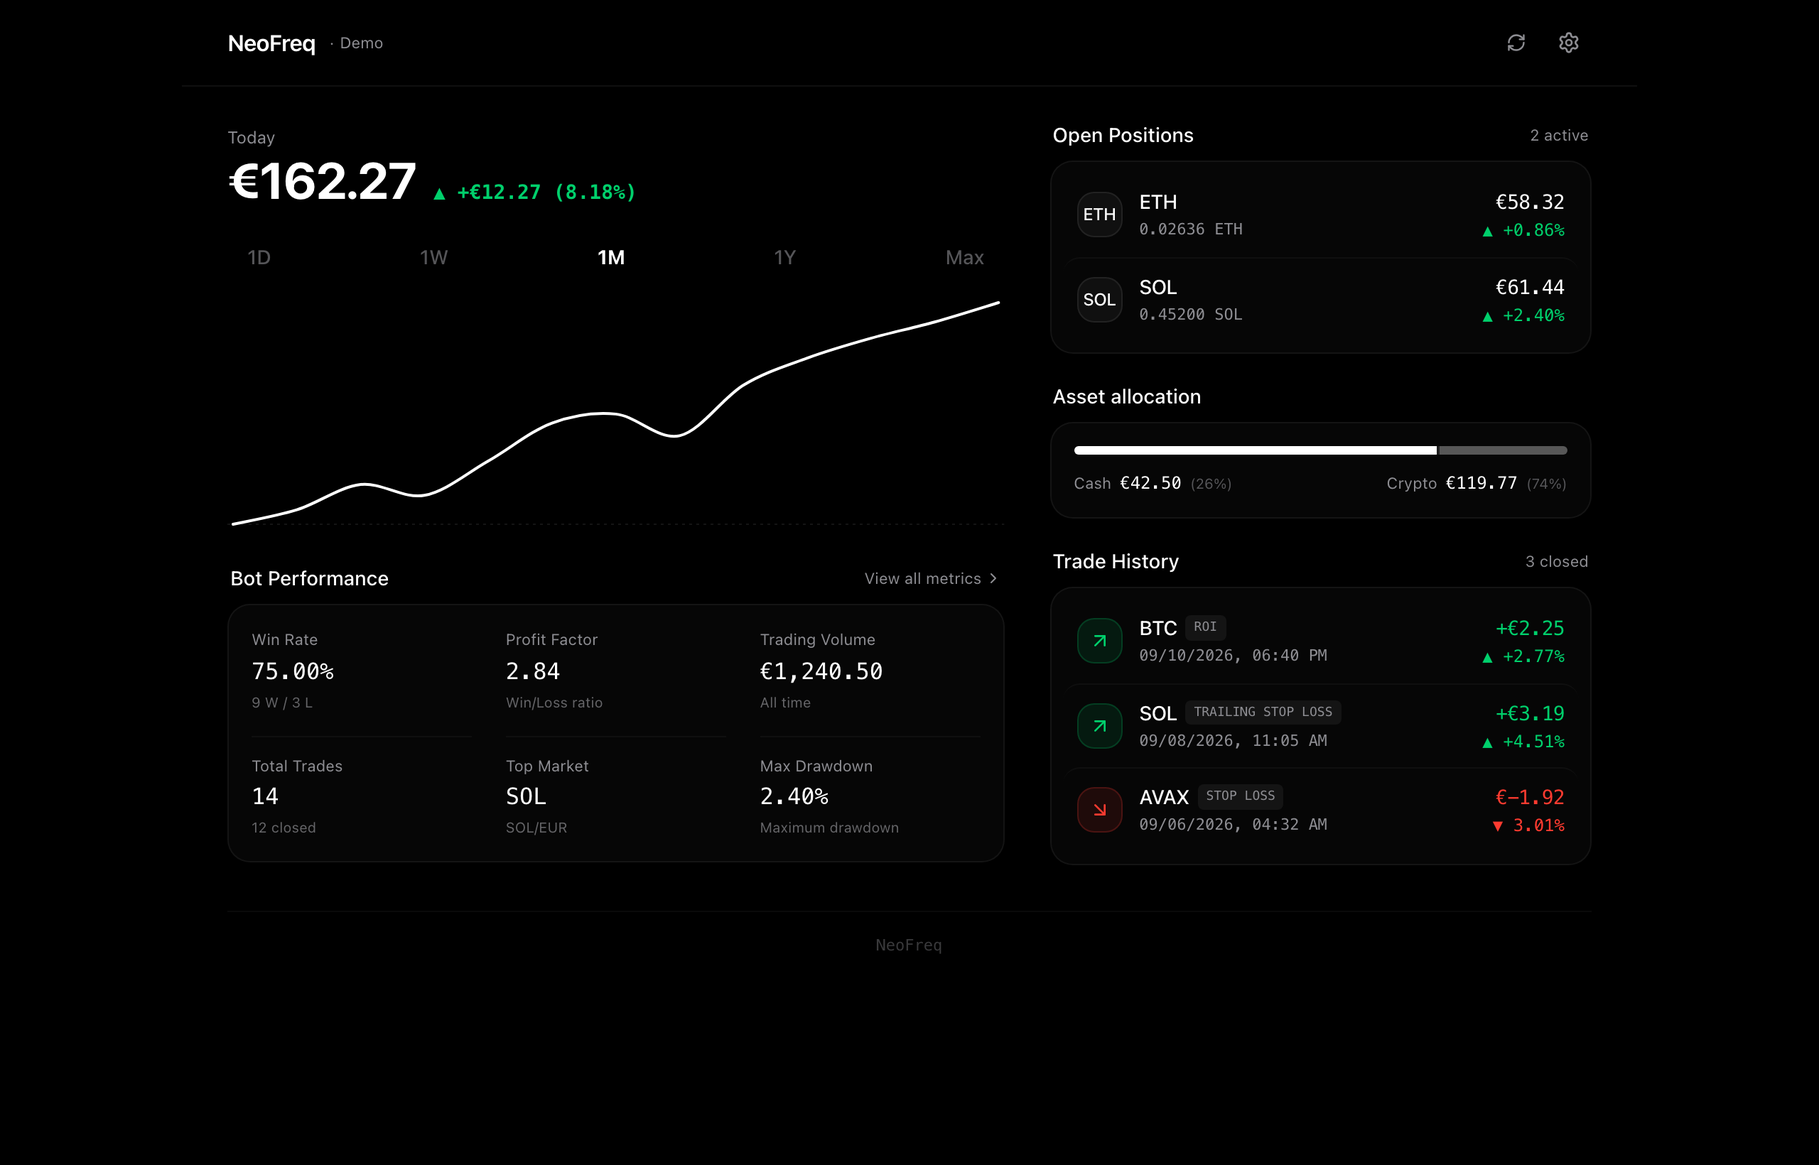
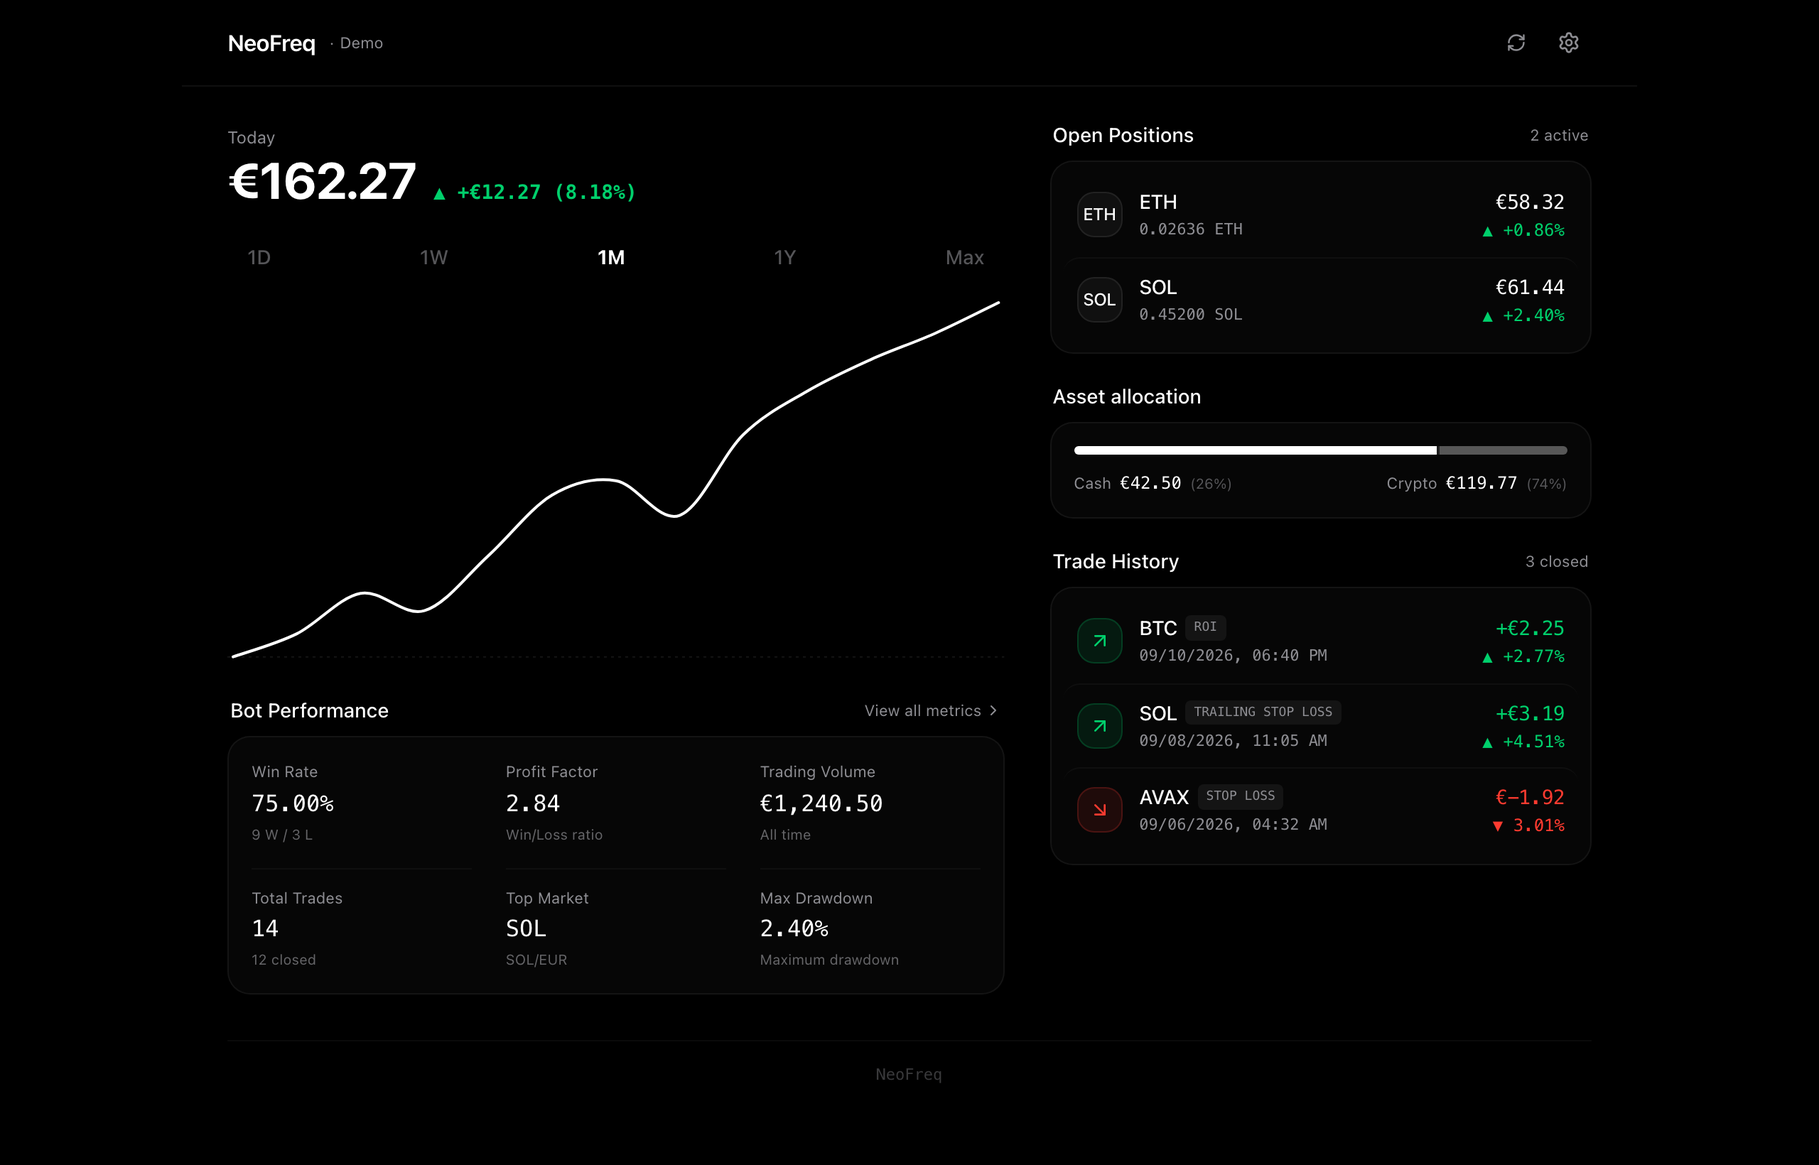
fix: resolve modal notch clipping, center submenus, prevent chart SVG overflow in Safari, and restore harmonious bottom spacing

diff --git a/src/App.tsx b/src/App.tsx
@@ -84,7 +84,7 @@ const MainDashboard: React.FC = () => {
     : t.common.offlineDesc;
 
   return (
-    <div className="fixed inset-0 lg:static lg:h-auto lg:max-h-none lg:overflow-visible bg-black text-white flex flex-col items-center selection:bg-white selection:text-black overflow-hidden pt-[env(safe-area-inset-top,0px)]">
+    <div className="fixed inset-0 h-[100dvh] max-h-[100dvh] lg:static lg:h-auto lg:max-h-none lg:overflow-visible bg-black text-white flex flex-col items-center selection:bg-white selection:text-black overflow-hidden pt-[env(safe-area-inset-top,0px)]">
       {/* Landscape Orientation Notice for mobile smartphones */}
       <LandscapeNotice />
 
@@ -128,9 +128,9 @@ const MainDashboard: React.FC = () => {
         {/* ---------------------------------------------------- */}
         {/* MOBILE VIEWPORT (100% No-Scroll, Full-Height Apple-Style Single Screen) */}
         {/* ---------------------------------------------------- */}
-        <div className="lg:hidden flex-1 flex flex-col justify-between px-4 pt-1 safe-bottom-dock overflow-hidden landscape:overflow-y-auto select-none min-h-0">
+        <div className="lg:hidden flex-1 flex flex-col px-4 pt-1 safe-bottom-dock overflow-hidden landscape:overflow-y-auto select-none min-h-0">
           {/* Top: Balance & Chart */}
-          <div className="flex-1 flex flex-col min-h-0 justify-start">
+          <div className="flex-1 flex flex-col min-h-0">
             <HeroBalance
               currentBalance={currentTotalBalance}
               currencySymbol={balance?.symbol || '€'}
@@ -152,10 +152,10 @@ const MainDashboard: React.FC = () => {
           </div>
 
           {/* Bottom Dock: Generous Card Stack with Harmonious Proportions & Native Spacing */}
-          <div className="flex flex-col gap-3 shrink-0 pt-1">
+          <div className="flex flex-col gap-2.5 shrink-0 pt-1">
             {/* Active Positions Card */}
             {openTrades.length === 0 ? (
-              <div className="tr-card p-4 min-h-[84px] flex items-center justify-between">
+              <div className="tr-card p-4 min-h-[80px] flex items-center justify-between">
                 <span className="text-sm text-tr-gray">{t.positions.emptyTitle}</span>
                 <span className="text-xs text-tr-gray/60 font-mono">
                   0 {t.positions.activeInMarket}
@@ -164,17 +164,17 @@ const MainDashboard: React.FC = () => {
             ) : openTrades.length === 1 ? (
               <div
                 onClick={() => setSelectedTrade(openTrades[0])}
-                className="tr-card p-4 min-h-[96px] flex items-center justify-between cursor-pointer active:bg-white/[0.06] transition-colors"
+                className="tr-card p-4 min-h-[88px] flex items-center justify-between cursor-pointer active:bg-white/[0.06] transition-colors"
               >
                 <div className="flex items-center space-x-3.5 min-w-0">
-                  <div className="w-[50px] h-[50px] rounded-2xl bg-white/[0.06] border border-white/10 flex items-center justify-center text-[13px] font-bold text-white shrink-0">
+                  <div className="w-12 h-12 rounded-2xl bg-white/[0.06] border border-white/10 flex items-center justify-center text-xs font-bold text-white shrink-0">
                     {(openTrades[0].base_currency || openTrades[0].pair.split('/')[0]).slice(0, 4)}
                   </div>
                   <div className="min-w-0">
-                    <div className="text-[17px] font-semibold text-white truncate leading-snug">
+                    <div className="text-base font-semibold text-white truncate leading-snug">
                       {openTrades[0].pair}
                     </div>
-                    <div className="text-xs text-tr-gray font-mono mt-1">
+                    <div className="text-xs text-tr-gray font-mono mt-0.5">
                       {formatCurrency(openTrades[0].stake_amount)} · {openTrades[0].leverage ? `${openTrades[0].leverage}x` : '1x'}
                     </div>
                   </div>
@@ -182,14 +182,14 @@ const MainDashboard: React.FC = () => {
                 <div className="flex items-center space-x-2.5 shrink-0 pl-2">
                   <div className="text-right">
                     <div
-                      className={`text-[17px] font-mono font-semibold ${
+                      className={`text-base font-mono font-semibold ${
                         openTrades[0].profit_pct >= 0 ? 'text-tr-green' : 'text-tr-red'
                       }`}
                     >
                       {openTrades[0].profit_pct >= 0 ? '+' : ''}
                       {openTrades[0].profit_pct.toFixed(2)}%
                     </div>
-                    <div className="text-xs text-tr-gray font-mono mt-1">
+                    <div className="text-xs text-tr-gray font-mono mt-0.5">
                       {openTrades[0].profit_abs !== undefined ? `${openTrades[0].profit_abs >= 0 ? '+' : ''}${formatCurrency(openTrades[0].profit_abs)}` : ''}
                     </div>
                   </div>
@@ -199,7 +199,7 @@ const MainDashboard: React.FC = () => {
             ) : (
               <div
                 onClick={() => setIsPositionsListOpen(true)}
-                className="tr-card p-4 min-h-[96px] flex items-center justify-between cursor-pointer active:bg-white/[0.06] transition-colors"
+                className="tr-card p-4 min-h-[88px] flex items-center justify-between cursor-pointer active:bg-white/[0.06] transition-colors"
               >
                 <div className="flex items-center space-x-3.5 min-w-0">
                   <div className="flex -space-x-2.5 overflow-hidden shrink-0">
@@ -208,7 +208,7 @@ const MainDashboard: React.FC = () => {
                       return (
                         <div
                           key={trade.trade_id}
-                          className="w-[50px] h-[50px] rounded-2xl bg-[#16181D] border border-white/20 flex items-center justify-center text-[12px] font-bold text-white tracking-tighter"
+                          className="w-12 h-12 rounded-2xl bg-[#16181D] border border-white/20 flex items-center justify-center text-[11px] font-bold text-white tracking-tighter"
                         >
                           {coin.slice(0, 3)}
                         </div>
@@ -216,10 +216,10 @@ const MainDashboard: React.FC = () => {
                     })}
                   </div>
                   <div className="min-w-0">
-                    <div className="text-[17px] font-semibold text-white leading-snug">
+                    <div className="text-base font-semibold text-white leading-snug">
                       {openTrades.length} {t.positions.title}
                     </div>
-                    <div className="text-xs text-tr-gray truncate font-mono mt-1">
+                    <div className="text-xs text-tr-gray truncate font-mono mt-0.5">
                       {openTrades.map((t) => t.base_currency || t.pair.split('/')[0]).join(', ')}
                     </div>
                   </div>
@@ -227,14 +227,14 @@ const MainDashboard: React.FC = () => {
                 <div className="flex items-center space-x-2.5 shrink-0 pl-2">
                   <div className="text-right">
                     <div
-                      className={`text-[17px] font-mono font-semibold ${
+                      className={`text-base font-mono font-semibold ${
                         profitAbs >= 0 ? 'text-tr-green' : 'text-tr-red'
                       }`}
                     >
                       {profitAbs >= 0 ? '+' : ''}
                       {profitPct.toFixed(2)}%
                     </div>
-                    <div className="text-xs text-tr-gray font-mono mt-1">
+                    <div className="text-xs text-tr-gray font-mono mt-0.5">
                       {profitAbs !== 0 ? `${profitAbs >= 0 ? '+' : ''}${formatCurrency(profitAbs)}` : ''}
                     </div>
                   </div>
@@ -244,21 +244,21 @@ const MainDashboard: React.FC = () => {
             )}
 
             {/* Quick Insights Row (2 Columns: Performance & Allocation) */}
-            <div className="grid grid-cols-2 gap-3">
+            <div className="grid grid-cols-2 gap-2.5">
               {/* Performance Tile */}
               <div
                 onClick={() => setIsMetricsOpen(true)}
-                className="tr-card p-4 cursor-pointer active:bg-white/[0.06] transition-colors flex flex-col justify-between min-h-[124px]"
+                className="tr-card p-4 cursor-pointer active:bg-white/[0.06] transition-colors flex flex-col justify-between min-h-[114px]"
               >
                 <div className="flex items-center justify-between text-tr-gray text-xs font-medium">
                   <span>{t.metrics.title}</span>
                   <ChevronRight className="w-3.5 h-3.5 text-tr-gray/70" />
                 </div>
                 <div className="mt-2">
-                  <div className="text-[26px] font-bold font-mono text-white tracking-tight leading-none">
+                  <div className="text-2xl font-bold font-mono text-white tracking-tight leading-none">
                     {profit ? formatPercent(profit.winrate * 100) : '—'}
                   </div>
-                  <div className="text-xs text-tr-gray font-mono mt-2">
+                  <div className="text-xs text-tr-gray font-mono mt-1.5">
                     PF {profit?.profit_factor ? profit.profit_factor.toFixed(2) : '—'} · {profit?.trade_count ?? 0} Trades
                   </div>
                 </div>
@@ -267,7 +267,7 @@ const MainDashboard: React.FC = () => {
               {/* Allocation Tile */}
               <div
                 onClick={() => setIsAllocationOpen(true)}
-                className="tr-card p-4 cursor-pointer active:bg-white/[0.06] transition-colors flex flex-col justify-between min-h-[124px]"
+                className="tr-card p-4 cursor-pointer active:bg-white/[0.06] transition-colors flex flex-col justify-between min-h-[114px]"
               >
                 <div className="flex items-center justify-between text-tr-gray text-xs font-medium">
                   <span>{t.allocation.title}</span>
@@ -295,17 +295,17 @@ const MainDashboard: React.FC = () => {
             {/* Trade History Compact Card */}
             <div
               onClick={() => setIsHistoryOpen(true)}
-              className="tr-card p-4 min-h-[88px] flex items-center justify-between cursor-pointer active:bg-white/[0.06] transition-colors"
+              className="tr-card p-4 min-h-[82px] flex items-center justify-between cursor-pointer active:bg-white/[0.06] transition-colors"
             >
               <div className="flex items-center space-x-3.5 min-w-0">
-                <div className="w-[50px] h-[50px] rounded-2xl bg-white/[0.04] border border-white/10 flex items-center justify-center text-tr-gray shrink-0">
+                <div className="w-12 h-12 rounded-2xl bg-white/[0.04] border border-white/10 flex items-center justify-center text-tr-gray shrink-0">
                   <History className="w-4 h-4 text-white/80" />
                 </div>
                 <div className="min-w-0 flex-1">
-                  <span className="text-[17px] font-semibold text-white block leading-snug">
+                  <span className="text-base font-semibold text-white block leading-snug">
                     {t.history.title}
                   </span>
-                  <span className="text-xs text-tr-gray font-mono mt-1 block whitespace-nowrap">
+                  <span className="text-xs text-tr-gray font-mono mt-0.5 block whitespace-nowrap">
                     {closedTrades.length === 0
                       ? t.history.emptyTitle
                       : `${closedTrades.length} ${t.history.entries}`}

diff --git a/src/components/SettingsModal.tsx b/src/components/SettingsModal.tsx
@@ -119,10 +119,10 @@ export const SettingsModal: React.FC<SettingsModalProps> = ({
   };
 
   return (
-    <div className="fixed inset-0 z-50 flex items-center justify-center p-4 bg-black/80 backdrop-blur-sm transition-opacity animate-in fade-in duration-150">
+    <div className="fixed inset-0 z-50 flex items-center justify-center px-4 pt-[max(calc(env(safe-area-inset-top,0px)+16px),24px)] pb-[max(calc(env(safe-area-inset-bottom,0px)+16px),24px)] bg-black/80 backdrop-blur-sm transition-opacity animate-in fade-in duration-150">
       <div className="absolute inset-0" onClick={onClose} />
 
-      <div className="relative w-full max-w-md bg-black border border-white/[0.08] rounded-2xl p-4 sm:p-5 z-10 max-h-[92vh] overflow-y-auto no-scrollbar">
+      <div className="relative w-full max-w-md bg-black border border-white/[0.08] rounded-2xl p-4 sm:p-5 z-10 max-h-[calc(100dvh-env(safe-area-inset-top,0px)-env(safe-area-inset-bottom,0px)-40px)] overflow-y-auto no-scrollbar my-auto">
         {/* Header: Unified Clean Layout */}
         <div className="flex items-center justify-between pb-2.5 border-b border-white/[0.08]">
           <div>
@@ -366,7 +366,7 @@ export const SettingsModal: React.FC<SettingsModalProps> = ({
 
         {/* Version / Build Stamp */}
         <div className="mt-3.5 text-center text-[10px] text-tr-gray/40 font-mono select-none">
-          NeoFreq v1.2.5 · Build 2026-09-12
+          NeoFreq v1.2.6 · Build 2026-09-13
         </div>
       </div>
     </div>

diff --git a/src/components/PositionDetailModal.tsx b/src/components/PositionDetailModal.tsx
@@ -24,10 +24,10 @@ export const PositionDetailModal: React.FC<PositionDetailModalProps> = ({ trade,
   const baseCurrency = trade.base_currency || trade.pair.split('/')[0];
 
   return (
-    <div className="fixed inset-0 z-50 flex items-center justify-center p-4 bg-black/80 backdrop-blur-sm transition-opacity animate-in fade-in duration-150">
+    <div className="fixed inset-0 z-50 flex items-center justify-center px-4 pt-[max(calc(env(safe-area-inset-top,0px)+16px),24px)] pb-[max(calc(env(safe-area-inset-bottom,0px)+16px),24px)] bg-black/80 backdrop-blur-sm transition-opacity animate-in fade-in duration-150">
       <div className="absolute inset-0" onClick={onClose} />
 
-      <div className="relative w-full max-w-md bg-black border border-white/[0.08] rounded-2xl p-4 sm:p-5 z-10 max-h-[90vh] overflow-y-auto no-scrollbar">
+      <div className="relative w-full max-w-md bg-black border border-white/[0.08] rounded-2xl p-4 sm:p-5 z-10 max-h-[calc(100dvh-env(safe-area-inset-top,0px)-env(safe-area-inset-bottom,0px)-40px)] overflow-y-auto no-scrollbar my-auto">
         {/* Header: Unified Clean Layout */}
         <div className="flex items-center justify-between pb-3 border-b border-white/[0.08]">
           <div>

diff --git a/src/components/MetricsDetailModal.tsx b/src/components/MetricsDetailModal.tsx
@@ -27,10 +27,10 @@ export const MetricsDetailModal: React.FC<MetricsDetailModalProps> = ({
   const netSign = isNetProfit ? '+' : '';
 
   return (
-    <div className="fixed inset-0 z-50 flex items-center justify-center p-4 bg-black/80 backdrop-blur-sm transition-opacity animate-in fade-in duration-150">
+    <div className="fixed inset-0 z-50 flex items-center justify-center px-4 pt-[max(calc(env(safe-area-inset-top,0px)+16px),24px)] pb-[max(calc(env(safe-area-inset-bottom,0px)+16px),24px)] bg-black/80 backdrop-blur-sm transition-opacity animate-in fade-in duration-150">
       <div className="absolute inset-0" onClick={onClose} />
 
-      <div className="relative w-full max-w-md bg-black border border-white/[0.08] rounded-2xl p-4 sm:p-5 z-10 max-h-[90vh] overflow-y-auto no-scrollbar">
+      <div className="relative w-full max-w-md bg-black border border-white/[0.08] rounded-2xl p-4 sm:p-5 z-10 max-h-[calc(100dvh-env(safe-area-inset-top,0px)-env(safe-area-inset-bottom,0px)-40px)] overflow-y-auto no-scrollbar my-auto">
         {/* Header: Unified Clean Layout */}
         <div className="flex items-center justify-between pb-3 border-b border-white/[0.08]">
           <div>

diff --git a/src/components/AllocationDetailModal.tsx b/src/components/AllocationDetailModal.tsx
@@ -33,9 +33,9 @@ export const AllocationDetailModal: React.FC<AllocationDetailModalProps> = ({
   const cryptoPct = total > 0 ? (cryptoTotal / total) * 100 : 0;
 
   return (
-    <div className="fixed inset-0 z-50 flex items-center justify-center p-4 bg-black/80 backdrop-blur-sm animate-in fade-in duration-150">
+    <div className="fixed inset-0 z-50 flex items-center justify-center px-4 pt-[max(calc(env(safe-area-inset-top,0px)+16px),24px)] pb-[max(calc(env(safe-area-inset-bottom,0px)+16px),24px)] bg-black/80 backdrop-blur-sm animate-in fade-in duration-150">
       <div className="absolute inset-0" onClick={onClose} />
-      <div className="relative w-full max-w-md bg-black border border-white/[0.08] rounded-2xl p-4 sm:p-5 z-10 max-h-[85vh] flex flex-col">
+      <div className="relative w-full max-w-md bg-black border border-white/[0.08] rounded-2xl p-4 sm:p-5 z-10 max-h-[calc(100dvh-env(safe-area-inset-top,0px)-env(safe-area-inset-bottom,0px)-40px)] flex flex-col my-auto">
         {/* Header */}
         <div className="flex items-center justify-between pb-3 border-b border-white/[0.08] shrink-0">
           <div className="flex items-center space-x-2.5">

diff --git a/src/components/PositionsListModal.tsx b/src/components/PositionsListModal.tsx
@@ -22,10 +22,10 @@ export const PositionsListModal: React.FC<PositionsListModalProps> = ({
   if (!isOpen) return null;
 
   return (
-    <div className="fixed inset-0 z-50 flex items-center justify-center p-4 bg-black/80 backdrop-blur-sm transition-opacity animate-in fade-in duration-150">
+    <div className="fixed inset-0 z-50 flex items-center justify-center px-4 pt-[max(calc(env(safe-area-inset-top,0px)+16px),24px)] pb-[max(calc(env(safe-area-inset-bottom,0px)+16px),24px)] bg-black/80 backdrop-blur-sm transition-opacity animate-in fade-in duration-150">
       <div className="absolute inset-0" onClick={onClose} />
 
-      <div className="relative w-full max-w-md bg-black border border-white/[0.08] rounded-2xl p-4 sm:p-5 z-10 max-h-[85vh] flex flex-col">
+      <div className="relative w-full max-w-md bg-black border border-white/[0.08] rounded-2xl p-4 sm:p-5 z-10 max-h-[calc(100dvh-env(safe-area-inset-top,0px)-env(safe-area-inset-bottom,0px)-40px)] flex flex-col my-auto">
         {/* Header */}
         <div className="flex items-center justify-between pb-3 border-b border-white/[0.08] shrink-0">
           <div>

diff --git a/src/components/SparklineChart.tsx b/src/components/SparklineChart.tsx
@@ -255,7 +255,7 @@ export const SparklineChart: React.FC<SparklineChartProps> = ({
       {/* Chart Canvas Area */}
       <div
         ref={containerRef}
-        className="w-full flex-1 relative touch-none cursor-crosshair min-h-[150px] max-h-[225px] lg:max-h-none lg:h-[180px]"
+        className="w-full flex-1 relative touch-none cursor-crosshair min-h-[110px] lg:h-[180px]"
         onPointerDown={(e) => {
           e.currentTarget.setPointerCapture(e.pointerId);
           handlePointerMove(e.clientX);
@@ -269,7 +269,7 @@ export const SparklineChart: React.FC<SparklineChartProps> = ({
         onPointerCancel={handlePointerLeave}
         onPointerLeave={handlePointerLeave}
       >
-        <svg width="100%" height={height} viewBox={`0 0 ${width} ${height}`} className="overflow-visible w-full">
+        <svg width="100%" height={height} viewBox={`0 0 ${width} ${height}`} className="w-full h-full block overflow-hidden">
           <defs>
             <linearGradient id="chart-glow" x1="0" y1="0" x2="0" y2="1">
               <stop offset="0%" stopColor="#FFFFFF" stopOpacity="0.10" />

diff --git a/src/components/TradeHistoryModal.tsx b/src/components/TradeHistoryModal.tsx
@@ -19,9 +19,9 @@ export const TradeHistoryModal: React.FC<TradeHistoryModalProps> = ({
   if (!isOpen) return null;
 
   return (
-    <div className="fixed inset-0 z-50 flex items-center justify-center p-4 bg-black/80 backdrop-blur-sm animate-in fade-in duration-150">
+    <div className="fixed inset-0 z-50 flex items-center justify-center px-4 pt-[max(calc(env(safe-area-inset-top,0px)+16px),24px)] pb-[max(calc(env(safe-area-inset-bottom,0px)+16px),24px)] bg-black/80 backdrop-blur-sm animate-in fade-in duration-150">
       <div className="absolute inset-0" onClick={onClose} />
-      <div className="relative w-full max-w-md bg-black border border-white/[0.08] rounded-2xl p-4 sm:p-5 z-10 max-h-[85vh] flex flex-col">
+      <div className="relative w-full max-w-md bg-black border border-white/[0.08] rounded-2xl p-4 sm:p-5 z-10 max-h-[calc(100dvh-env(safe-area-inset-top,0px)-env(safe-area-inset-bottom,0px)-40px)] flex flex-col my-auto">
         {/* Header */}
         <div className="flex items-center justify-between pb-3 border-b border-white/[0.08] shrink-0">
           <div>

diff --git a/src/index.css b/src/index.css
@@ -83,7 +83,7 @@ html, body {
   scrollbar-width: none;
 }
 
-/* Responsive bottom dock padding: sits cleanly above bottom edge with comfortable 16px spacing */
+/* Responsive bottom dock padding: sits cleanly right above the iOS home indicator */
 .safe-bottom-dock {
-  padding-bottom: 16px;
+  padding-bottom: max(calc(env(safe-area-inset-bottom, 0px) - 18px), 14px);
 }
